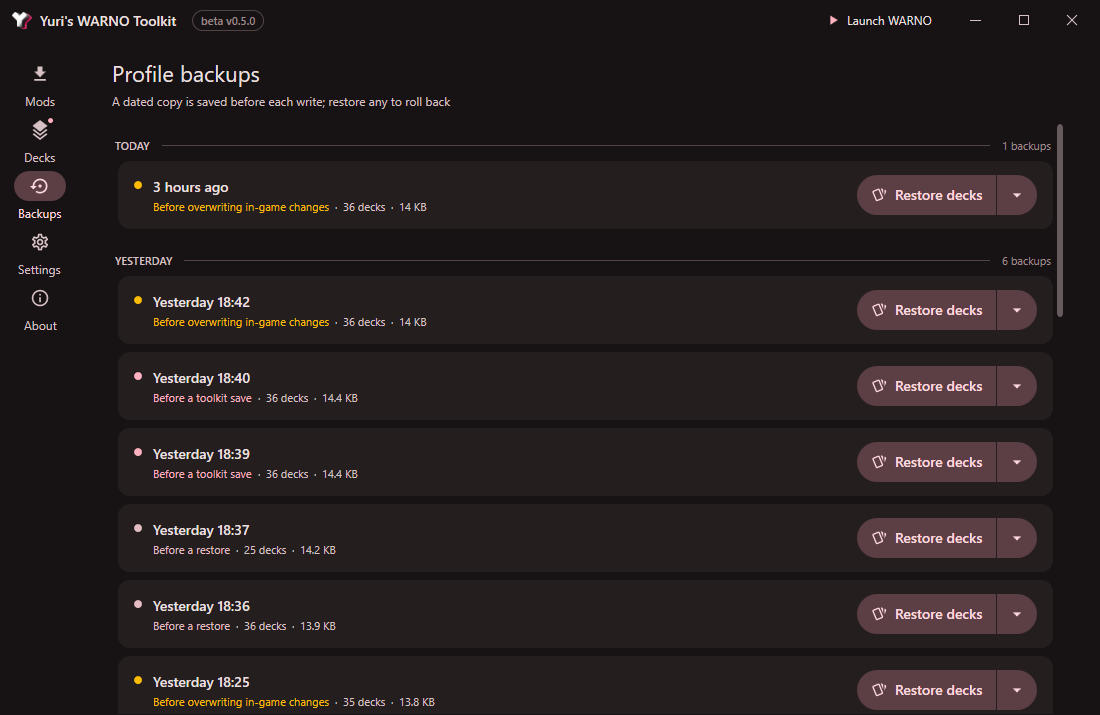
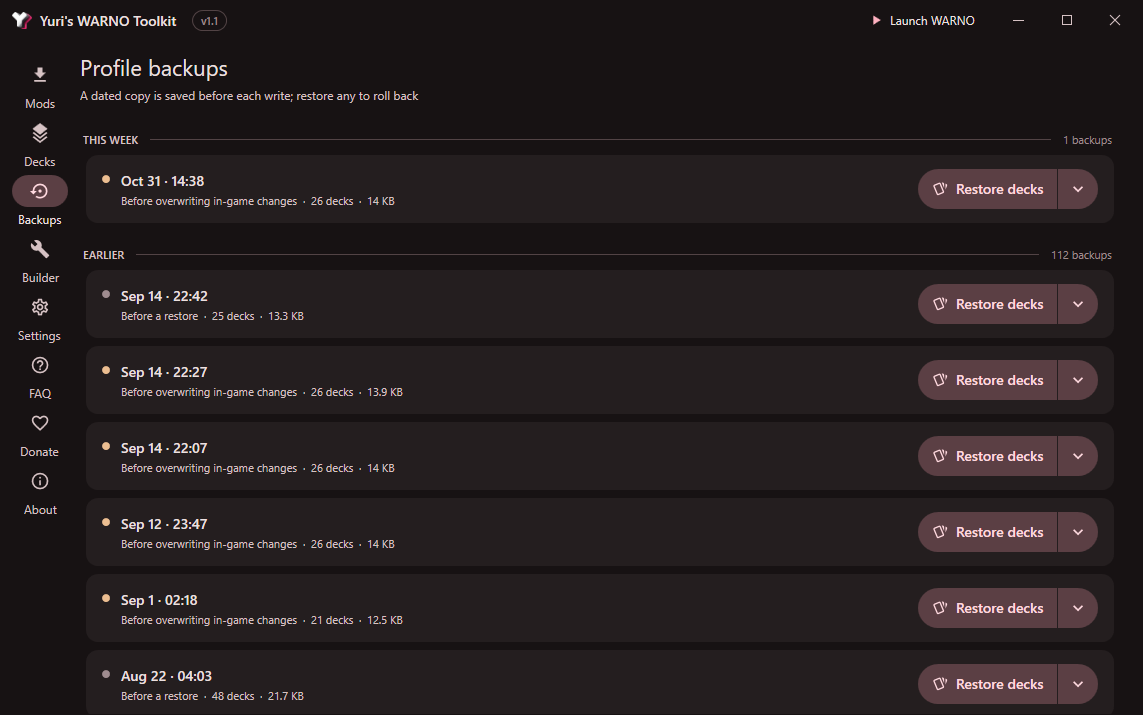
docs: refresh the screenshots and add the Mod Builder

diff --git a/README.md b/README.md
@@ -28,6 +28,9 @@ A full **battlegroup editor** that works directly on your WARNO profile — read
 **Install and switch mods for your game build**
 <p align="center"><img src="docs/mods.png" alt="Mods" width="100%"></p>
 
+**Build YSM and WTO on top of the mods you play**
+<p align="center"><img src="docs/builder.png" alt="Mod Builder" width="100%"></p>
+
 **Snapshot and restore your whole profile**
 <p align="center"><img src="docs/backups.png" alt="Backups" width="100%"></p>
 
